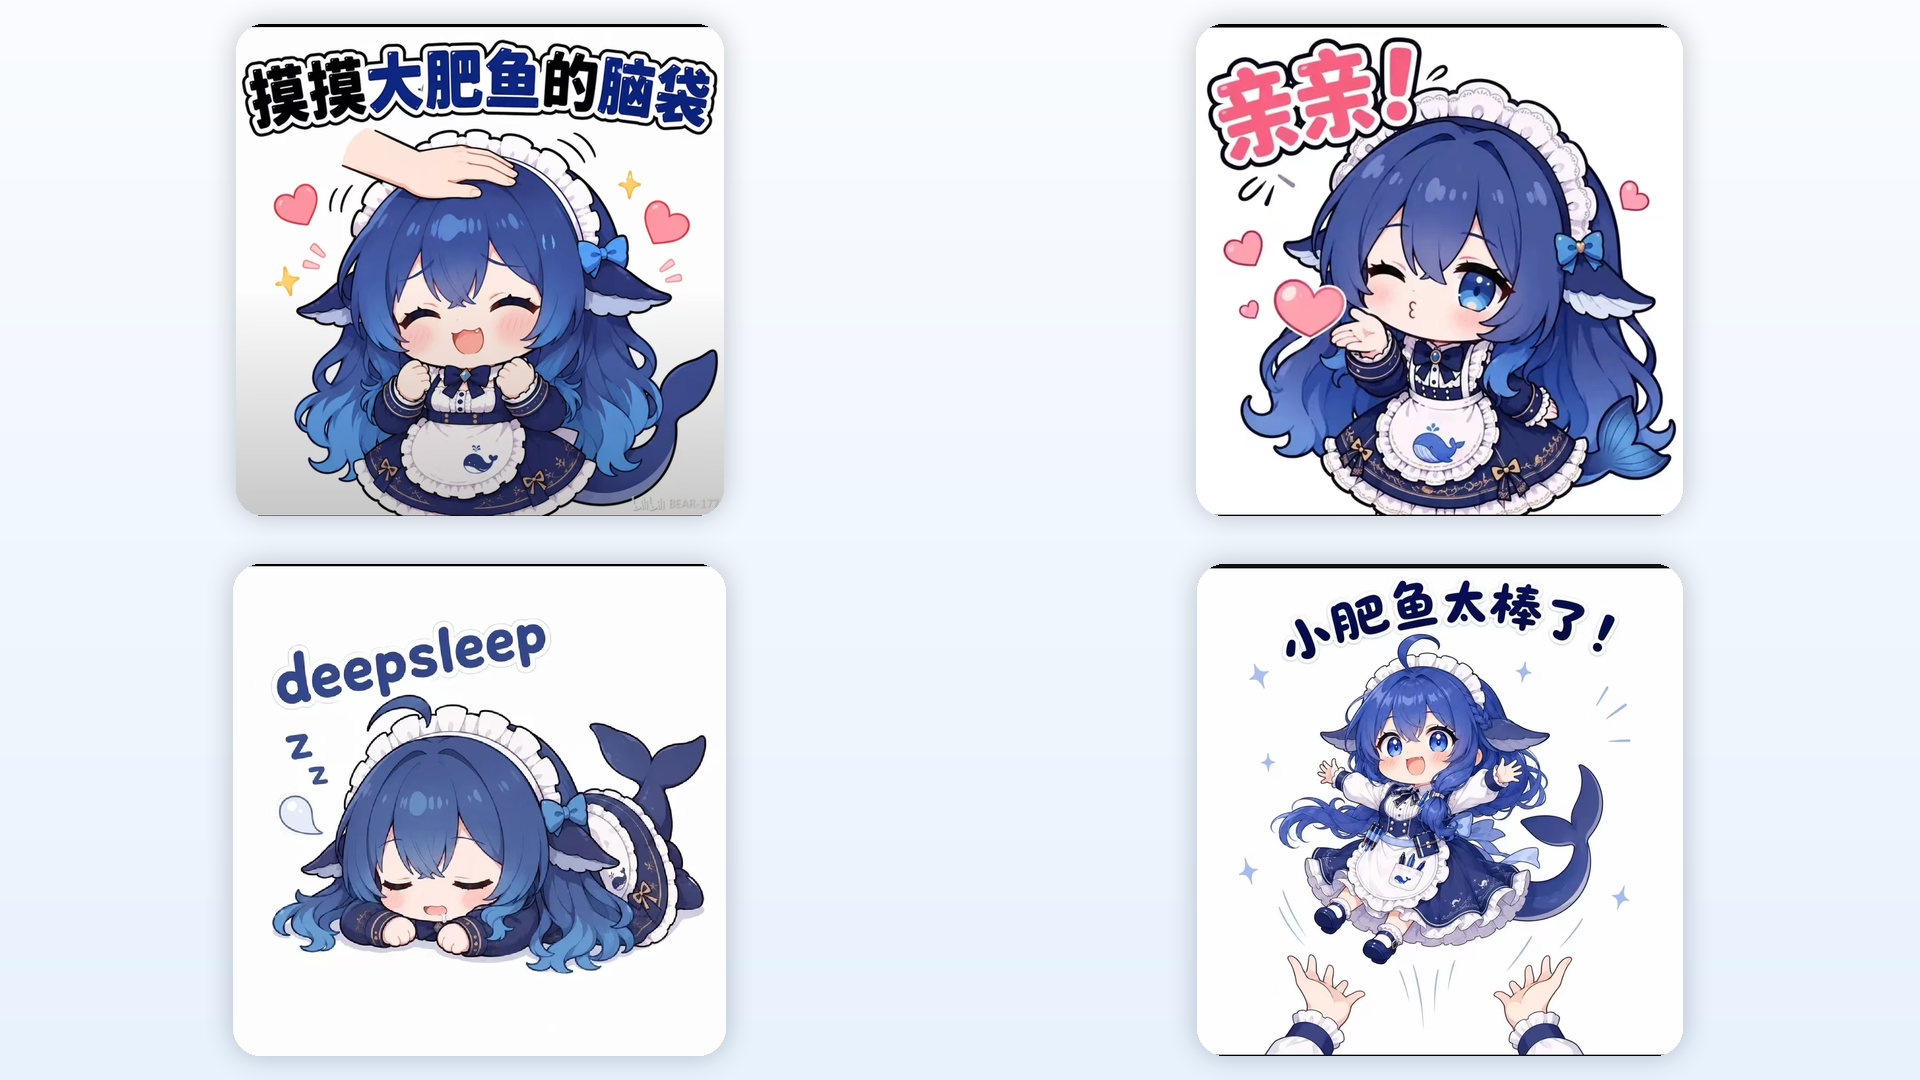
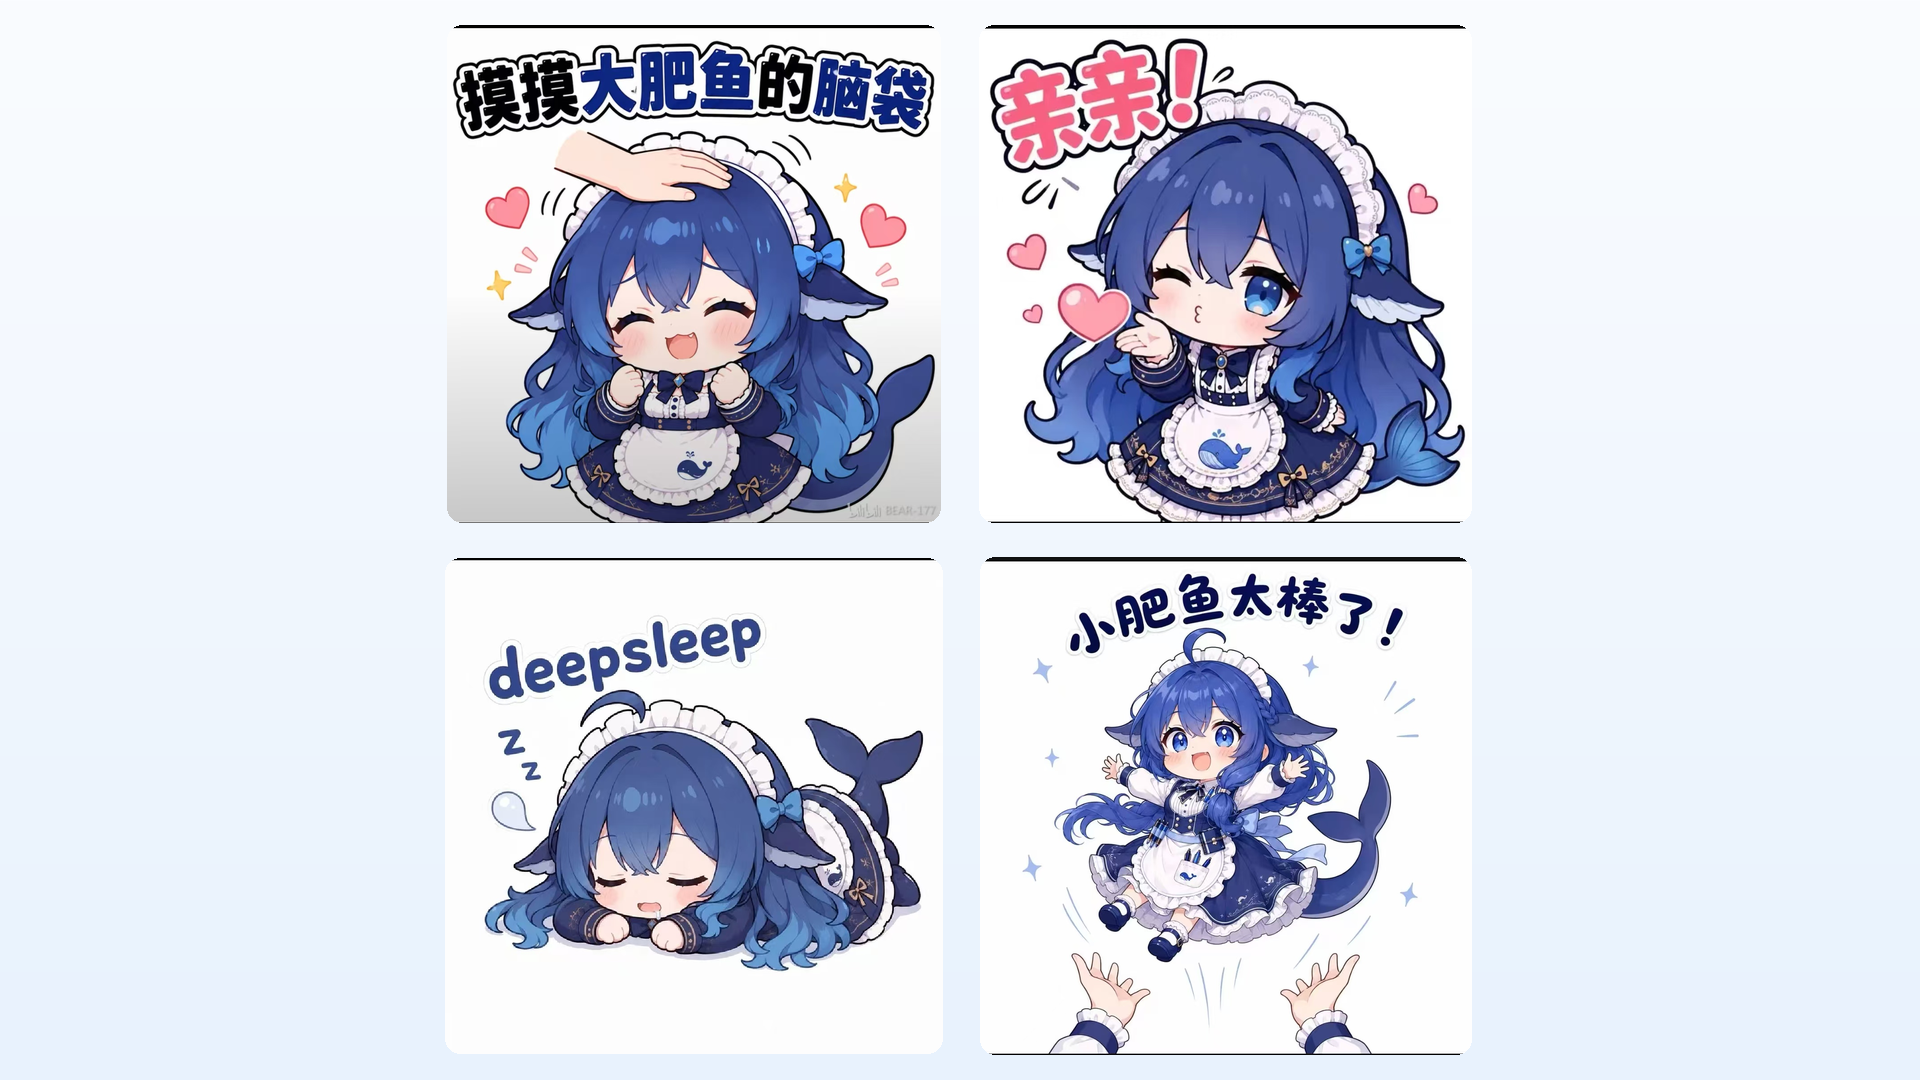
style: 2x2 拼贴改为紧贴式布局(卡片细缝相挨, 整块居中)
- compose_grid: 卡片大小由屏幕高度决定, 外圈 1.5% 边距 + 1.5% 细缝, 卡片圆角缩小、去阴影
- 支持 DEEPSKIN_GRID_GAP 环境变量调整细缝百分比
- 同步刷新 docs/2x2-preview.png 与 vscode 画廊缩略图, 重打包 vsix

diff --git a/tools/skin_core.py b/tools/skin_core.py
@@ -119,18 +119,37 @@ def _paste_card(base, src, cell, margin_ratio=0.045, radius_ratio=0.05, shadow=T
 
 
 def compose_grid(size=(3840, 2160), cols=2, rows=2):
-    """2x2 拼贴壁纸。"""
+    """紧贴式 2x2 拼贴壁纸: 四张卡片几乎挨在一起(细缝), 整体居中成一块相片墙。
+    卡片大小由屏幕高度决定; 缝隙/外边距比例可用环境变量 DEEPSKIN_GRID_GAP 调整(百分比, 默认 1.5)。"""
     ensure_pillow()
     from PIL import Image
 
     if len(IMAGE_FILES) > cols * rows:
         raise ValueError("素材数量超过网格容量")
+    W, H = size
+    try:
+        gap_pct = float(os.environ.get("DEEPSKIN_GRID_GAP", "1.5"))
+    except ValueError:
+        gap_pct = 1.5
+    m = min(W, H)
+    pad = max(6, int(m * 0.015))  # 外圈边距
+    gap = max(4, int(m * gap_pct / 100.0))  # 卡片之间细缝
+    t = min(
+        (H - 2 * pad - (rows - 1) * gap) // rows,
+        (W - 2 * pad - (cols - 1) * gap) // cols,
+    )
+    t = max(t, 64)
+    total_w = cols * t + (cols - 1) * gap
+    total_h = rows * t + (rows - 1) * gap
+    x0 = (W - total_w) // 2
+    y0 = (H - total_h) // 2
+
     base = _gradient(size).convert("RGBA")
-    cw, ch = size[0] // cols, size[1] // rows
     for i, f in enumerate(IMAGE_FILES):
         src = Image.open(os.path.join(ASSETS_DIR, f)).convert("RGB")
         r, c = divmod(i, cols)
-        _paste_card(base, src, (c * cw, r * ch, cw, ch))
+        cell = (x0 + c * (t + gap), y0 + r * (t + gap), t, t)
+        _paste_card(base, src, cell, margin_ratio=0.018, radius_ratio=0.03, shadow=False)
     return base.convert("RGB")
 
 
